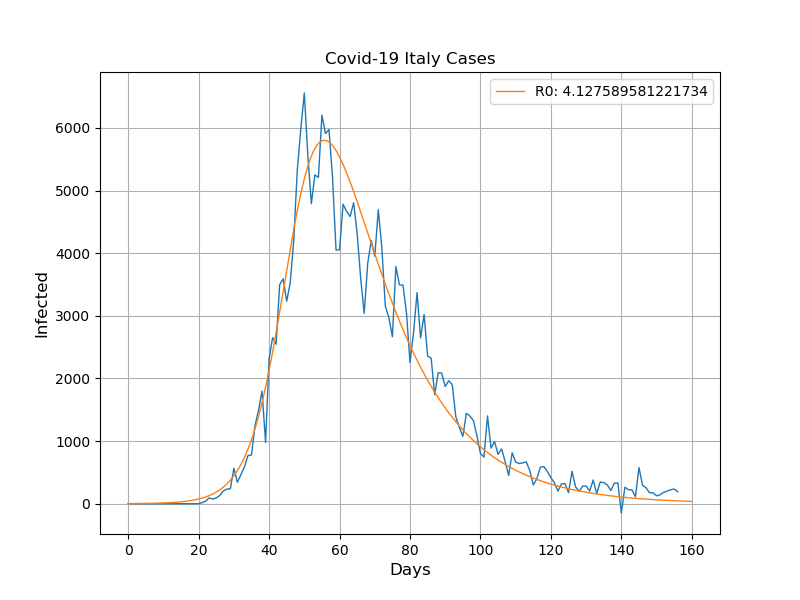
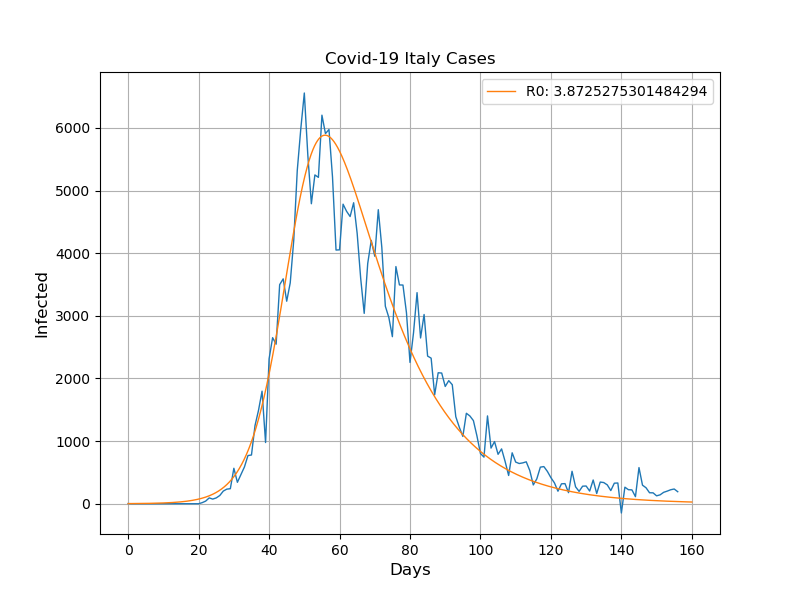
script modification and new results

diff --git a/SIR_Model.py b/SIR_Model.py
@@ -53,12 +53,14 @@ class SIR_Model:
 	def get_data(self ,  country_name):
 		df = pd.read_csv('time_series_covid19_confirmed_global.csv')
 		countryDF = df[df['Country/Region'] == country_name] 
-		country_df = countryDF.iloc[0].loc[Country_Start_Day[country_name]:]
+		index = list(countryDF['Province/State'].values).index(np.nan)
+		country_df = countryDF.iloc[index].loc[Country_Start_Day[country_name]:]
 		cases = country_df.values.tolist()
 		cases.insert(0, 0)
 		cases = np.array(cases)
 		daily_cases = cases[1:] - cases[:-1]
-		days = list(range(len(daily_cases)))
+		daily_cases = [item for item in daily_cases if item >= 0]
+		days = list(range(1,len(daily_cases)+1))
 		self.contagion_days=len(days)
 		return days, daily_cases
 
@@ -113,6 +115,8 @@ class SIR_Model:
 		a_param = opt[0]
 		b_param = opt[1]
 
+
+
 		didt,dsdt,drdt = self.SIR_system(a_param,b_param)
 
 		t0 = 0
@@ -124,13 +128,20 @@ class SIR_Model:
 
 		tRK,SusRK,InfRK,RecRK = RK.runge_kutta_4th_order_3_coupled(t0,tmax,dt,vec0,didt,dsdt,drdt)
 
+
+		print(self.country)
+		print('a: ',a_param)
+		print('b: ',b_param)
+		print('R-0: ',a_param*N/b_param)
+
 		self.Plot_Results(days_data,daily_cases_data,tRK,InfRK,"Days","Infected",a_param,b_param)
 
 
 if __name__ == '__main__':
 
 	# Countries with best fitting model
-	Country_Start_Day = {'Italy':'1/31/20','Germany':'1/27/20','India':'1/30/20','Spain':'1/31/20'}
+
+	Country_Start_Day = {'Italy':'1/31/20','Germany':'1/27/20','India':'1/30/20','Spain':'1/31/20','United Kingdom':'2/28/20','Netherlands':'2/27/20'}
 
 	# Save Images:
 	path = os.path.join(os.path.dirname(__file__), 'Results' )
@@ -139,6 +150,7 @@ if __name__ == '__main__':
 	# Intro Parameters to the Model
 	args = parse_args()
 	Country = args.country
+
 	Susceptibles = args.susceptibles
 	Infected = args.infected
 	Recovered = args.recovered

diff --git a/README.md b/README.md
@@ -48,7 +48,7 @@ susceptible population (S), these can be established randomly but the model may 
 converge or remain at some local minimum when trying to find the optimal parameters 'a' and 'b'. 
 One option is to use the SIR_model.nb notebook and manipulate the graph on it until 
 the proper initial parameters can be tested.
-R_0 is the basic reproduction number, is the expected number of cases generated by one individual
+R-0 is the basic reproduction number, is the expected number of cases generated by one individual
 and it's defined as R-0 = a*N/b where N is the total sample population.   
 
 # Data Source
